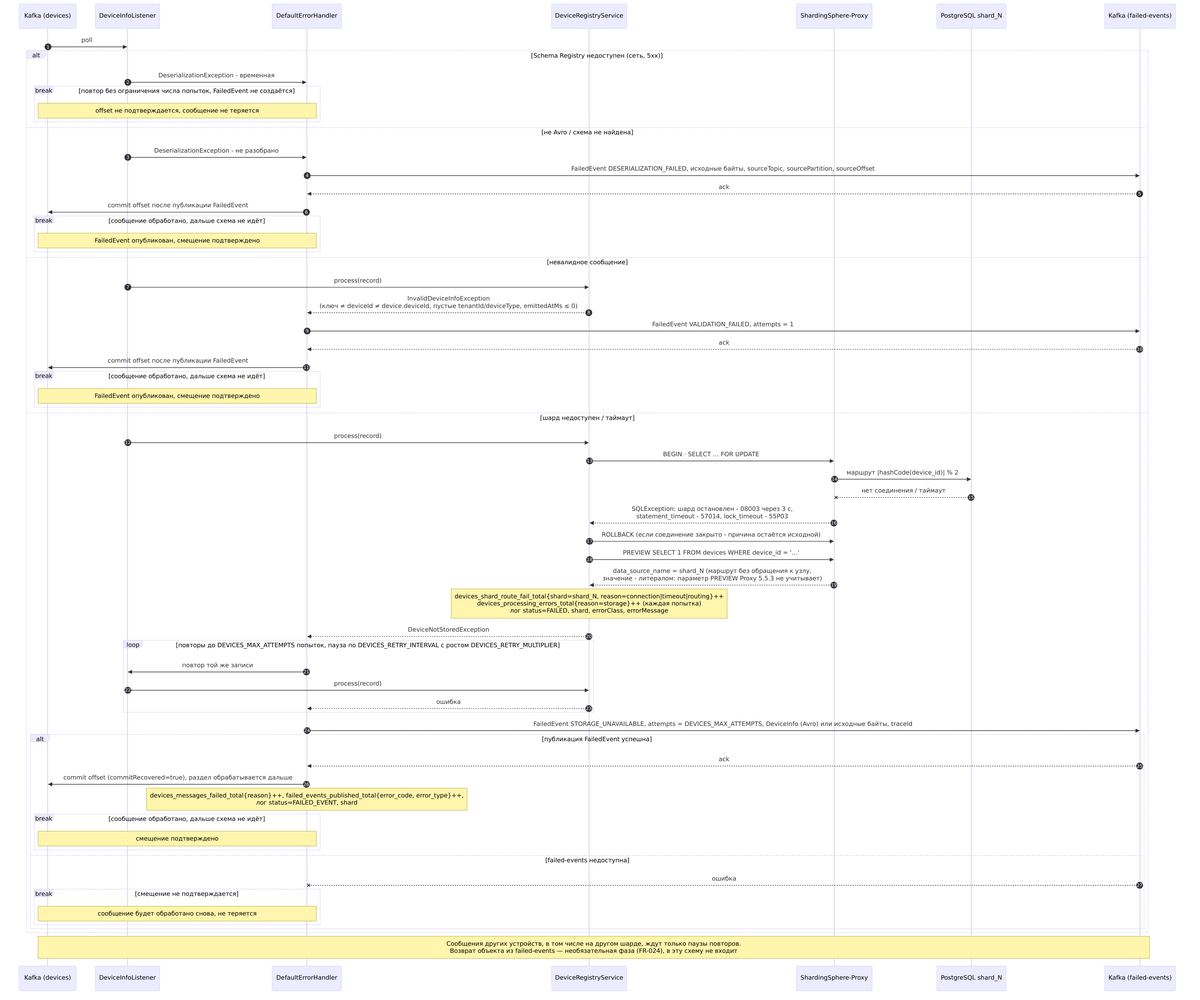
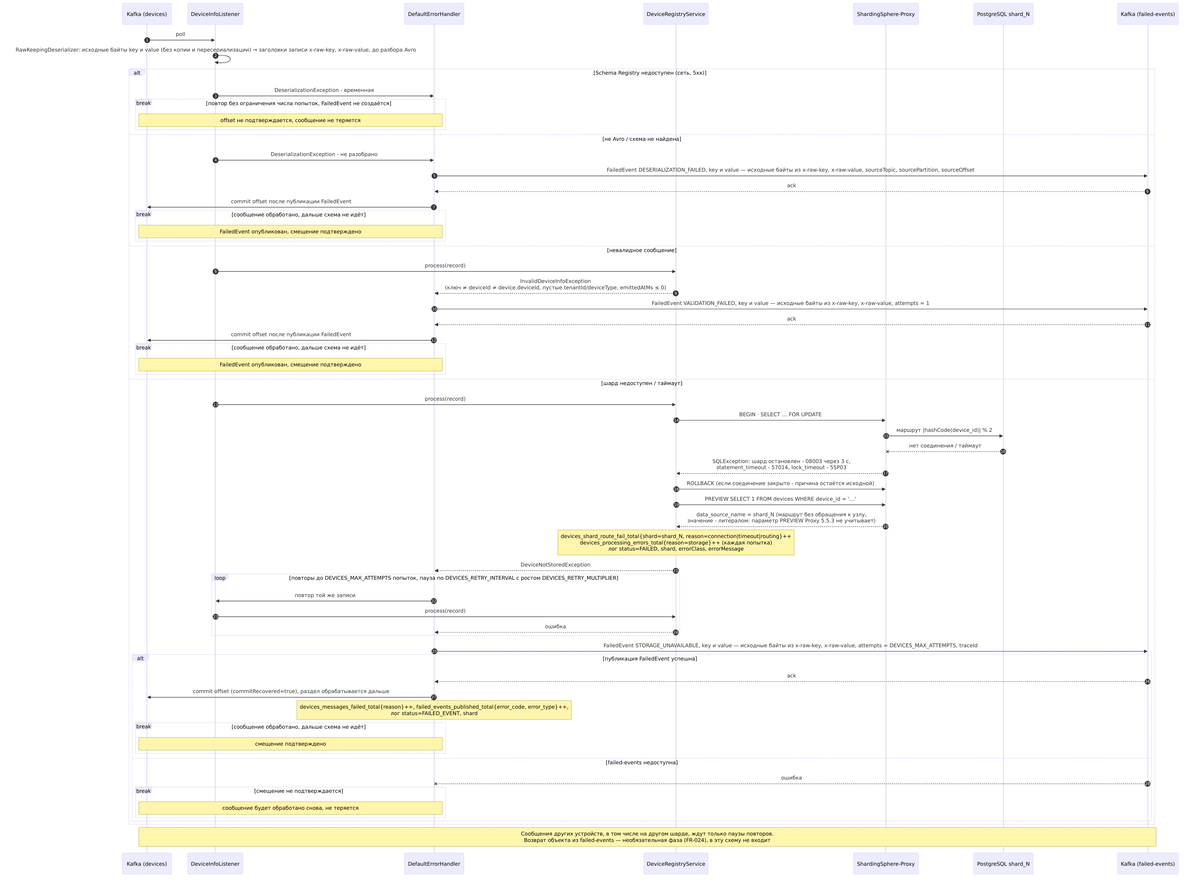
Дизайн: правки по ревью PR 6 - единый ключ объекта, исходные байты, порядок записей и ответственность за FailedEvent
- ключ объекта один для читаемой и нечитаемой записи: <yyyy>/<MM>/<dd>/failed-events-<partition>-<offset>.json
  из раздела, смещения и времени записи failed-events; сбой между записью unreadable и подтверждением смещения
  больше не даёт второго объекта (ADR-0014, ADR-0018, ADR-0019, spec, data-model, plan, research, quickstart, tasks)
- цена решения записана в ADR-0014: нет префикса сервис/код (поиск по метаданным), повторная публикация
  сборщиком даёт второй объект с теми же координатами исходного сообщения в теле
- диаграммы: FailedEvent во всех ветках получает исходные байты из x-raw-key и x-raw-value, шаг их сохранения до
  разбора Avro; ack events после device_events и device_outbox; сервис реестра бросает исключение, FailedEvent
  публикует DefaultErrorHandler, смещение после ответа Kafka, ветка неудачной публикации; PNG перерендерены
- analyze-report: проход после ревью PR 6

diff --git a/specs/002-failed-events/spec.md b/specs/002-failed-events/spec.md
@@ -14,21 +14,23 @@ MinIO становится общим хранилищем: в нём живут
 
 ### Session 2026-11-21
 
-- Q: Из чего строится ключ объекта и зачем так? → A: из координат и времени **исходного** сообщения
-  (`<sourceService>/<yyyy>/<MM>/<dd>/<errorCode>/<sourceTopic>-<sourcePartition>-<sourceOffset>.json`). Ключ из координат
-  `failed-events` и времени записи дал бы второй объект, когда сборщик упал после публикации и до фиксации смещения и
-  опубликовал то же сообщение снова ([ADR-0014](../../docs/adr/0014-failed-object-key-and-idempotent-write.md)).
-- Q: Как найти объект через полгода? → A: по префиксу (сервис → дата → код ошибки); по `traceId` и `deviceId` — они лежат
-  в JSON и в метаданных объекта (`x-amz-meta-trace-id`, `x-amz-meta-device-id`); перечень объектов за день можно выгрузить
-  и искать по тексту ([ADR-0014](../../docs/adr/0014-failed-object-key-and-idempotent-write.md)).
-- Q: Что делает процессор с сообщением, которое сам не смог десериализовать? → A: пишет объект `unreadable/…` с сырыми
-  байтами ключа, значения и заголовков записи `failed-events` в base64 и причиной, затем подтверждает смещение. Временная
+- Q: Из чего строится ключ объекта и зачем так? → A: из раздела, смещения и времени записи `failed-events`
+  (`<yyyy>/<MM>/<dd>/failed-events-<partition>-<offset>.json`), одинаково для читаемой и нечитаемой записи. Нечитаемая запись
+  не даёт координат исходного сообщения; при двух разных ключах сбой между записью `unreadable` и подтверждением смещения
+  после восстановления схемы дал бы два объекта на одну запись (замечание ревью PR #6,
+  [ADR-0014](../../docs/adr/0014-failed-object-key-and-idempotent-write.md)). Цена: повторная публикация того же исходного
+  сообщения сборщиком — новая запись `failed-events` и второй объект с теми же координатами исходного сообщения в теле.
+- Q: Как найти объект через полгода? → A: по префиксу дня (`yyyy/MM/dd/`); сервис, код ошибки, `traceId` и `deviceId` — по
+  метаданным объекта (`x-amz-meta-error-code`, `-source-service`, `-trace-id`, `-device-id`) и по полям JSON; перечень объектов
+  за день можно выгрузить и искать по тексту ([ADR-0014](../../docs/adr/0014-failed-object-key-and-idempotent-write.md)).
+- Q: Что делает процессор с сообщением, которое сам не смог десериализовать? → A: пишет объект с тем же ключом и `kind = unreadable`
+  в теле: сырые байты ключа, значения и заголовков записи `failed-events` в base64 и причина; затем подтверждает смещение. Временная
   недоступность Schema Registry — не нечитаемость: повторы без объекта
   ([ADR-0018](../../docs/adr/0018-failed-events-processor-failure-modes.md)).
 - Q: Что происходит, когда БД недоступна и весь поток уходит в `failed-events`? → A: сборщик после N попыток публикует
   `STORAGE_UNAVAILABLE` на каждое сообщение, основная тема не стоит; Kafka хранит поток 14 суток, процессор пишет по
-  объекту на сообщение со своей скоростью, отставание видно на панели. Объекты одного кода и дня лежат под одним префиксом —
-  их можно вернуть пачкой после восстановления БД. Предохранитель «пауза потребления» отвергнут
+  объекту на сообщение со своей скоростью, отставание видно на панели. Объекты дня лежат под одним префиксом, объекты одного кода
+  отбираются по метаданным — их можно вернуть пачкой после восстановления БД. Предохранитель «пауза потребления» отвергнут
   ([ADR-0018](../../docs/adr/0018-failed-events-processor-failure-modes.md)).
 - Q: Чем и по какому расписанию копии PostgreSQL и ClickHouse уходят в MinIO? → A: контейнер `backup-runner`, расписание
   `BACKUP_SCHEDULE` (по умолчанию `0 3 * * *`, UTC) и `make backup` вручную; PostgreSQL — логика `shard-backup.sh`, ClickHouse —
@@ -67,7 +69,7 @@ MinIO становится общим хранилищем: в нём живут
 1. **Given** запись в `failed-events`, **When** процессор прочитал её, **Then** один объект, смещение — после записи.
 2. **Given** запись доставлена повторно, **When** процессор читает её снова, **Then** объект тот же, второго нет.
 3. **Given** MinIO недоступен, **When** процессор читает, **Then** повторы, дальше не читает, смещение не фиксируется; после возврата MinIO объект есть.
-4. **Given** нечитаемая запись `failed-events`, **When** процессор читает, **Then** объект `unreadable/…`, смещение подтверждено.
+4. **Given** нечитаемая запись `failed-events`, **When** процессор читает, **Then** объект с `kind = unreadable` по ключу записи, смещение подтверждено.
 
 ### User Story 3 — Найти сообщение и восстановить байты (P2)
 
@@ -89,7 +91,8 @@ MinIO становится общим хранилищем: в нём живут
 - Недоступен MinIO дольше `max.poll.interval.ms`: тайм-ауты клиента короче интервала, группа остаётся `Stable`.
 - Всплеск ошибок: отставание группы `failed-events-processor` растёт, на основной поток не влияет (см. Clarifications).
 - Бакет `failed-events` существует с данными: перезапуск стенда и init его не очищают и не пересоздают.
-- Объект уже существует с другим содержимым (тот же ключ): `412` — это повторная запись того же сообщения, содержимое не перезаписывается.
+- Объект уже существует с другим содержимым (тот же ключ): `412` — это повторная запись той же записи `failed-events`, содержимое не перезаписывается.
+- Запись сначала нечитаема (схема не найдена), объект записан, смещение не подтверждено; схема появилась, запись разобрана: тот же ключ, `412`, объект остаётся `unreadable` с исходными байтами ([ADR-0014](../../docs/adr/0014-failed-object-key-and-idempotent-write.md)).
 
 ## Requirements
 
@@ -133,14 +136,16 @@ MinIO становится общим хранилищем: в нём живут
 ### failed-events-processor
 
 - **FR-007**: Процессор читает `failed-events` (группа `failed-events-processor`) и на каждую запись пишет один JSON-объект в бакет
-  `failed-events` по ключу `<sourceService>/<yyyy>/<MM>/<dd>/<errorCode>/<sourceTopic>-<sourcePartition>-<sourceOffset>.json`
-  (дата — `sourceTimestamp`, UTC). В JSON все поля `FailedEvent`, байты — base64, `description` и коды — как есть; в метаданных
+  `failed-events` по ключу `<yyyy>/<MM>/<dd>/failed-events-<partition>-<offset>.json` (раздел и смещение записи `failed-events`,
+  дата — время этой записи, UTC; ключ один для читаемой и нечитаемой записи). В JSON все поля `FailedEvent`, байты — base64, `description` и коды — как есть; в метаданных
   объекта `error-code`, `source-service`, `source-topic`, `trace-id`, `device-id` (тот же набор, что в data-model.md). Смещение — после успешной записи.
   *Проверка*: объект существует, JSON содержит каждое поле схемы, `base64(value)` побайтно равно исходному сообщению, метаданные заполнены.
 - **FR-008**: Повторная доставка не создаёт второго объекта: запись `PutObject` с `If-None-Match: *`, ответ `412` — объект уже есть,
   смещение подтверждается; содержимое существующего объекта не меняется и версий не прибавляется.
-  *Проверка*: одна и та же запись `failed-events` доставлена дважды (и две разные записи с одним исходным сообщением) — в бакете один объект,
-  одна версия, счётчик `outcome=duplicate` вырос.
+  Повторная публикация того же исходного сообщения сборщиком — новая запись `failed-events` с другим смещением, то есть второй объект
+  с теми же `sourceTopic`, `sourcePartition`, `sourceOffset` в теле (известное ограничение, ADR-0014).
+  *Проверка*: одна и та же запись `failed-events` доставлена дважды — в бакете один объект, одна версия, счётчик `outcome=duplicate` вырос;
+  запись, сначала записанная как `unreadable`, а затем разобранная, — один объект.
 - **FR-009**: MinIO недоступен — процессор повторяет запись с растущей паузой (до `FAILED_EVENTS_RETRY_MAX_INTERVAL`), дальше не
   читает и не фиксирует смещение; тайм-ауты вызова S3 (`FAILED_EVENTS_S3_API_CALL_TIMEOUT`, `FAILED_EVENTS_S3_API_CALL_ATTEMPT_TIMEOUT`) короче
   `max.poll.interval.ms`, поэтому группа остаётся `Stable`. После возврата MinIO объект появляется, повторов потерь нет.
@@ -148,9 +153,8 @@ MinIO становится общим хранилищем: в нём живут
   *Проверка*: IT — MinIO на паузе дольше `max.poll.interval.ms`: смещение группы не движется, группа `Stable`; после снятия паузы
   объект появился и смещение продвинулось; тест перезапуска процессора над непустым бакетом — объекты на месте.
 - **FR-010**: Запись `failed-events`, которую процессор не смог десериализовать (мусор, неизвестная схема, 404 схемы), — объект
-  `unreadable/<yyyy>/<MM>/<dd>/failed-events-<partition>-<offset>.json` (сырые байты ключа, значения, заголовков в base64, причина,
-  дата — время записи), затем смещение. Временная ошибка Schema Registry — повторы без объекта.
-  *Проверка*: в `failed-events` отправлены байты мусора — объект `unreadable/…` есть, группа дальше читает; при остановленном
+  по тому же ключу, что в FR-007 (`kind = unreadable` в теле; сырые байты ключа, значения, заголовков в base64, причина), затем смещение. Временная ошибка Schema Registry — повторы без объекта.
+  *Проверка*: в `failed-events` отправлены байты мусора — объект с `kind = unreadable` есть, группа дальше читает; при остановленном
   Schema Registry объекта нет, смещение не движется, после запуска запись разобрана штатно.
 - **FR-011**: Один `traceId`: сообщение в `events` → сборщик с ошибкой → `failed-events` → запись в MinIO; тот же `traceId` в JSON.
   Запись в MinIO — спан `s3.put-object` в той же трассе.
@@ -160,7 +164,7 @@ MinIO становится общим хранилищем: в нём живут
   процессор пишет со своей скоростью. *Проверка* (на стенде, [quickstart.md](quickstart.md), сценарий 6): остановлен Proxy, отправлено
   N событий — через `EVENTS_MAX_ATTEMPTS` попыток N записей `STORAGE_UNAVAILABLE`, после записи всех — N объектов; замерена скорость
   процессора (объектов/с), на панели виден рост и спад отставания.
-- **FR-013**: Поиск через полгода описан и проверен: найти объект по префиксу (сервис, дата, код), по `deviceId` и по `traceId`.
+- **FR-013**: Поиск через полгода описан и проверен: найти объект по префиксу дня, затем по метаданным или полю JSON (сервис, код), по `deviceId` и по `traceId`.
   *Проверка*: README содержит команды (`mc ls`, `mc find --metadata`); по ним находится объект тестового сообщения.
 
 ### MinIO
@@ -215,12 +219,12 @@ MinIO становится общим хранилищем: в нём живут
 
 - **FailedEvent** — сообщение темы `failed-events` (data-model.md): исходное сообщение + описание ошибки.
 - **Объект ошибки** — JSON в `failed-events/…`: образ `FailedEvent` с base64 вместо байтов и метаданными для поиска.
-- **Нечитаемая запись** — объект `unreadable/…`: сырые байты записи `failed-events`, которую процессор не разобрал.
+- **Нечитаемая запись** — объект с `kind = unreadable`: сырые байты записи `failed-events`, которую процессор не разобрал; ключ тот же, что у обычного объекта.
 - **Копия базы** — каталог в `backups/<база>/<метка>/` с дампом, manifest и контрольными суммами.
 
 ## Success Criteria
 
-- **SC-001**: Число записей, опубликованных сборщиками в `failed-events`, равно числу различных объектов (по исходным координатам) в бакете — потерь нет.
+- **SC-001**: Число записей, опубликованных сборщиками в `failed-events`, равно числу объектов в бакете (повторная публикация одного сообщения — известное исключение, ADR-0014) — потерь нет.
 - **SC-002**: Повторная доставка любой записи не увеличивает число объектов и версий.
 - **SC-003**: Пауза MinIO на 45 с: группа `failed-events-processor` остаётся `Stable`, после снятия паузы все записи архивированы.
 - **SC-004**: Восстановление баз из копий MinIO возвращает данные, равные manifest.

diff --git a/docs/adr/0014-failed-object-key-and-idempotent-write.md b/docs/adr/0014-failed-object-key-and-idempotent-write.md
@@ -1,36 +1,42 @@
 # ADR-0014: Ключ объекта в MinIO и идемпотентная запись
 
-**Статус**: предложено, 2026-11-21 (на проверке дизайна) · **Спецификация**: [specs/002-failed-events](../../specs/002-failed-events/spec.md)
+**Статус**: предложено, 2026-11-21 (на проверке дизайна); изменено 2026-11-22 по ревью PR #6 (единый ключ для читаемой и нечитаемой записи) · **Спецификация**: [specs/002-failed-events](../../specs/002-failed-events/spec.md)
 
 ## Контекст
 
-Процессор пишет по одному объекту на каждое сообщение `failed-events`. Повторная доставка неизбежна: сбой после отправки и до подтверждения смещения, перебалансировка группы, повторная публикация сборщиком. Если ключ строится из координат `failed-events` и времени записи, повторная публикация дает второй объект (ошибка иллюстративного примера исходной постановки, research.md, «Иллюстративные примеры исходной постановки», п. 1).
+Процессор пишет по одному объекту на каждое сообщение `failed-events`. Повторная доставка неизбежна: сбой после отправки и до подтверждения смещения, перебалансировка группы.
+
+Первая редакция строила ключ читаемой записи из координат исходного сообщения (`sourceService/…/errorCode/sourceTopic-p-o`), а нечитаемой — из координат записи в `failed-events` (`unreadable/…`). Ревью показало дефект. Если схема сначала не найдена, объект записан в `unreadable/`, а процесс упал до подтверждения смещения, после восстановления схемы запись разберётся и уйдёт в обычную ветку. Ключ другой, `If-None-Match` не сработает, и на одну запись `failed-events` будет два объекта. У нечитаемой записи координат исходного сообщения нет, поэтому общий ключ можно построить только из координат самой записи `failed-events`.
 
 Поиск нужен через полгода: по сервису, коду, дню, трассе и устройству.
 
 ## Решение
 
-- Ключ объекта: `<sourceService>/<yyyy>/<MM>/<dd>/<errorCode>/<sourceTopic>-<sourcePartition>-<sourceOffset>.json`. Дата — `sourceTimestamp` в UTC. Одно исходное сообщение дает один ключ независимо от числа публикаций.
-- Нечитаемое сообщение `failed-events`: `unreadable/<yyyy>/<MM>/<dd>/failed-events-<partition>-<offset>.json`, дата — время записи в `failed-events` (правило — ADR-0018).
-- Тело JSON содержит все поля `FailedEvent`. `key`, `value` и `headers` — base64 от исходных байтов. Времена — ISO-8601 UTC.
+- Ключ объекта один для обеих веток: `<yyyy>/<MM>/<dd>/failed-events-<partition>-<offset>.json`. `partition` и `offset` — раздел и смещение записи в `failed-events`, дата — время этой записи (`timestamp`) в UTC. Эти три значения при повторной доставке записи не меняются, поэтому ключ тот же.
+- Читаемая и нечитаемая запись различаются телом, а не ключом: у нечитаемой поле `kind = unreadable` (правило — ADR-0018).
+- Время записи — `timestamp` записи Kafka (по умолчанию `CreateTime`, его ставит продюсер сборщика при отправке). Оно не зависит от числа доставок записи процессору. Что тема использует `CreateTime`, а не `LogAppendTime`, проверяет тест ключа (T035); для `LogAppendTime` время тоже одно на запись.
+- Тело JSON содержит все поля `FailedEvent`. `key`, `value` и `headers` — base64 от исходных байтов. Времена — ISO-8601 UTC. Координаты исходного сообщения (`sourceTopic`, `sourcePartition`, `sourceOffset`) лежат в теле.
 - Запись в объект: `PutObject` с `If-None-Match: *`. Ответ 412 означает, что объект уже записан; сообщение считается обработанным и смещение подтверждается. Версия не создаётся (см. research.md R5: `bitnamilegacy/minio` и `pgsty/minio`).
 - HEAD с последующим PUT не используется: между двумя экземплярами процессора это гонка.
-- Содержимое при повторе не сравнивается: 412 означает «объект с таким ключом уже есть». Ключ однозначно задаёт исходное сообщение, поэтому сравнение не нужно.
-- Метаданные объекта: `x-amz-meta-error-code`, `x-amz-meta-source-service`, `x-amz-meta-device-id`, `x-amz-meta-trace-id`.
-- Поиск через полгода: ListObjectsV2 по префиксу сервис → дата → код; `traceId` и `deviceId` — по метаданным объекта или полю JSON. Полнотекстовый поиск — выгрузкой дня в ClickHouse или скриптом.
+- Содержимое при повторе не сравнивается: 412 означает «объект с таким ключом уже есть». Ключ однозначно задаёт запись `failed-events`, поэтому сравнение не нужно.
+- Метаданные объекта: `x-amz-meta-error-code`, `x-amz-meta-source-service`, `x-amz-meta-device-id`, `x-amz-meta-trace-id`; у нечитаемой записи метаданных нет, она определяется полем `kind` в теле.
+- Поиск через полгода: `ListObjectsV2` по префиксу дня (`yyyy/MM/dd/`); сервис, код, `traceId` и `deviceId` — по метаданным объекта (`mc find --metadata`) или полю JSON.
 
 ## Последствия
 
-- Повторная доставка и повторная публикация одного сообщения не создают дубликатов.
+- Одна запись `failed-events` даёт ровно один объект в обеих ветках, в том числе при сбое между записью `unreadable` и подтверждением смещения.
+- Ключ больше не содержит сервис и код ошибки. Выбрать объекты одного сервиса или кода можно только перебором префикса дня и чтением метаданных: каждый объект — отдельный `HEAD`. Скорость на объёме за полгода не измерена (не проверено).
+- Повторная публикация одного исходного сообщения сборщиком (публикация дошла до брокера, сборщик упал до подтверждения смещения `events`) даёт новую запись `failed-events` с другим смещением и потому второй объект с теми же координатами исходного сообщения в теле. Первая редакция этого случая избегала. Дубль безопасен: содержимое совпадает, отличаются `failedAt` и `traceId`, если трасса новая. Окно узкое (публикация синхронная, `acks=all`), число таких дублей на стенде не измерялось (не проверено).
+- Если запись сначала записана как `unreadable`, а схема потом появилась, объект остаётся `unreadable` с исходными байтами. Повторная запись вернёт 412. Разобрать такой объект можно вручную по base64; автоматической перезаписи нет.
 - Объект после записи не меняется. Исправленное содержимое требует нового объекта, и это осознанно.
-- Префикс по коду и дню позволяет найти пачку объектов одного кода (нужно для возврата, ADR-0019).
-- Если объект записан с ошибочным содержимым, повторная публикация не исправит его: ключ тот же, запись вернёт 412. Исправление требует ручного удаления объекта; процедуры в проекте нет (не проверено).
-- Поиск по `deviceId` и `traceId` идёт по префиксу дня, индекса нет. Скорость на объёме за полгода не измерена (не проверено).
+- Если объект записан с ошибочным содержимым, повторная доставка не исправит его: ключ тот же, запись вернёт 412. Исправление требует ручного удаления объекта; процедуры в проекте нет (не проверено).
 - Восстановление байт из JSON декодированием base64 проверено только на уровне записи объекта (см. research.md R5); отдельного теста «JSON → байты → sha256» нет (не проверено; тест JSON-документа — T035).
+- Возврат объекта (ADR-0019) выбирает объекты по префиксу дня и метаданным, а не по префиксу кода.
 
 ## Рассмотренные варианты
 
-- Ключ из координат `failed-events` и времени записи: дубль при повторной публикации. Отвергнуто.
+- Два ключа: по координатам исходного сообщения и `unreadable/…` по координатам записи `failed-events` (первая редакция). Окно с двумя объектами на одну запись при сбое между записью и подтверждением. Отвергнуто по ревью PR #6.
+- Ключ из координат исходного сообщения для читаемой записи и «координат записи» для нечитаемой, с проверкой наличия обоих ключей перед записью: HEAD по двум ключам — гонка между экземплярами. Отвергнуто.
 - HEAD, затем PUT: гонка двух экземпляров процессора. Отвергнуто.
 - Версионирование без условного PUT: новая версия на каждый повтор доставки (research.md, «Иллюстративные примеры исходной постановки», п. 11). Отвергнуто.
-- Ключ с `deviceId` первым: неравномерный префикс, нет поиска по дню и сервису. Отвергнуто.
+- Ключ с `deviceId` первым: неравномерный префикс, нет поиска по дню. Отвергнуто.

diff --git a/specs/002-failed-events/research.md b/specs/002-failed-events/research.md
@@ -12,9 +12,9 @@ Mimir 3.2.6, Loki 3.1.1, Tempo 2.6.0, Alloy v1.4.2, ClickHouse 26.2.19, PostgreS
 | R2 | Ключ — строгий UTF-8: `StringDeserializer` молча заменяет недопустимые байты, поэтому ключ декодируется строгим декодером; ошибка — `DESERIALIZATION_FAILED` с исходными байтами | Проверено на прототипе: с `StringDeserializer` байты ключа `FF FE 41` терялись; со строгим декодером — `DESERIALIZATION_FAILED` с исходными байтами | T011, T016, T022, T025 | — |
 | R3 | Публикация в `failed-events` — в `ConsumerRecordRecoverer` синхронно (`send().get(тайм-аут)`); сбой публикации — исключение, смещение не подтверждается, сообщение обработано заново; `setCommitRecovered(true)` при `manual_immediate` подтверждает после успеха. `ExponentialBackOffWithMaxRetries(n)` даёт `n + 1` вызовов слушателя, поэтому повторов — `maxAttempts − 1` | Проверено на прототипе: 3 вызова при `n = 2`, одна запись после восстановления темы, committed offset не двигался до восстановления | T010, T018, T021, T027 | — |
 | R4 | `traceId` — из `Tracer.currentSpan()` в recoverer; запасной путь — заголовок `traceparent`; у сообщения без трассы — `null` | Проверено на прототипе: трассы для всех трёх типов ошибок. Не проверено: сообщение без `traceparent` и без спана (граница; проверяют T010 и T021) | T010, T017 | — |
-| R5 | Идемпотентная запись: `PutObject` с `If-None-Match: *`, повтор — `412`; версионирование не создаёт второй версии; ключ объекта из координат и времени исходного сообщения | Проверено: условная запись на бакете с версиями — на MinIO 2024.10.13 и на `pgsty/minio` 2026-08-04; клиент Java на настоящем MinIO — 14 тестов (13 тестов прототипа + проверка модуля Testcontainers MinIO) | T008, T043, T037 | — |
+| R5 | Идемпотентная запись: `PutObject` с `If-None-Match: *`, повтор — `412`; версионирование не создаёт второй версии; ключ объекта из раздела, смещения и времени записи `failed-events`, один для читаемой и нечитаемой записи (изменено по ревью PR #6; прототипы проверяли условную запись, а не форму ключа) | Проверено: условная запись на бакете с версиями — на MinIO 2024.10.13 и на `pgsty/minio` 2026-08-04; клиент Java на настоящем MinIO — 14 тестов (13 тестов прототипа + проверка модуля Testcontainers MinIO) | T008, T043, T037 | — |
 | R6 | Недоступность MinIO дольше `max.poll.interval.ms`: тайм-ауты клиента (`apiCallTimeout` 8 с, `apiCallAttemptTimeout` 4 с) короче интервала + бесконечный `ExponentialBackOff` (500 мс … 10 с) + `ContainerPausingBackOffHandler`; без тайм-аутов потребитель вылетает из группы | Проверено на прототипе с S3-заглушкой, затем на `pgsty/minio`: группа `Stable` при паузе 45 с, объект появляется после снятия | T043, T045, T038 | — |
-| R7 | Нечитаемая запись `failed-events` — объект `unreadable/…` и смещение; временная ошибка Schema Registry — повторы без объекта, 404 схемы и мусор — `unreadable` | Проверено на прототипе: при паузе Schema Registry объекта нет, после возврата запись разобрана. Не измерено: число повторов при недоступном Schema Registry | T045, T038 | — |
+| R7 | Нечитаемая запись `failed-events` — объект с `kind = unreadable` по общему ключу записи и смещение; временная ошибка Schema Registry — повторы без объекта, 404 схемы и мусор — `unreadable` | Проверено на прототипе: при паузе Schema Registry объекта нет, после возврата запись разобрана. Не измерено: число повторов при недоступном Schema Registry | T045, T038 | — |
 | R8 | Спан записи в MinIO — Observation `s3.put-object` с тегом `bucket`, потомок спана слушателя той же трассы | Проверено на прототипе: спан создан и связан со спаном слушателя. Не проверено: экспорт в Tempo (проверяют T048 и T049) | T043, T039 | явный `Tracer.nextSpan()` в адаптере |
 | R9 | `FailedEvent` совместима FULL_TRANSITIVE; `ErrorCode` с `default` — новый символ читается старым читателем как `UNKNOWN`. Поле `deviceId` (`["null","string"]`, default `null`) добавлено к прототипной схеме | Проверено на прототипе для схемы без `deviceId`; `deviceId` — Предположение, закрывает `make avros-check` (T003) | T003, T014, T036 | — |
 | R10 | Образ MinIO `pgsty/minio:RELEASE.2026-08-04T00-00-00Z` (форк; amd64 и arm64): официальные `minio/minio`, `minio/mc` — `pull access denied`, `quay.io/minio/minio` — 401; в образе есть `sh`, `tr`, `curl`, `mc`, `sha256sum`, нет `grep`, `sed`, `awk` | Проверено: стенд, init, Testcontainers и прототипы: запуск под root, `minio --version`, наличие `sh`, `curl`, `mc`; `bitnamilegacy` требует явной команды запуска. Проект переименован в `pgsty/silo` (последний тег 2026-11-12) — не проверялся | T007, T009, T037 | свой образ из `bitnamilegacy/minio:2024.10.13-debian-12-r0` (заморожен); переход на `silo` — отдельным ADR |
@@ -38,7 +38,7 @@ Mimir 3.2.6, Loki 3.1.1, Tempo 2.6.0, Alloy v1.4.2, ClickHouse 26.2.19, PostgreS
 
 | # | Пример | Что неверно | Как у нас |
 |---|---|---|---|
-| 1 | Ключ объекта `…/failed-events-3-1042.json` из координат `failed-events` и даты записи | Повторная публикация того же исходного сообщения сборщиком даёт второй объект | Координаты и время исходного сообщения (ADR-0014) |
+| 1 | Ключ объекта `…/failed-events-3-1042.json` из координат `failed-events` и даты записи | Повторная публикация того же исходного сообщения сборщиком даёт второй объект; первая редакция дизайна отвергла этот ключ | Принят по ревью PR #6 для обеих веток: у нечитаемой записи нет координат исходного сообщения, и два разных ключа дают два объекта на одну запись (ADR-0014); ограничение повторной публикации записано там же |
 | 2 | Recoverer берёт байты из `DeserializationException` | Для невалидного, но разобранного сообщения исходных байт нет, а пересериализация меняет байты (id схемы) | Сырые байты до разбора (R1) |
 | 3 | `new ExponentialBackOffWithMaxRetries(retry.maxAttempts())` | Повторов на один больше, чем попыток | `maxAttempts − 1` (R3) |
 | 4 | `jsonMapper.toJson(record.value())` по Avro `SpecificRecord` | В JSON попадают служебные поля и `ByteBuffer` | Явный документ с base64 (data-model.md) |

diff --git a/specs/002-failed-events/plan.md b/specs/002-failed-events/plan.md
@@ -9,8 +9,8 @@
 Сборщики (events-collector-service, device-collector-service) вместо собственных DLT публикуют `FailedEvent` в единую тему
 `failed-events`: исходные байты до разбора, координаты и время исходного сообщения, код и тип ошибки из общего справочника в
 схеме. Публикация синхронная, смещение исходной темы — после неё. Новый сервис `failed-events-processor` читает тему и на каждую
-запись пишет один JSON-объект в MinIO условной записью `If-None-Match: *` по ключу из координат исходного сообщения: повтор не
-даёт второго объекта. MinIO — единое хранилище платформы в базовом стенде: данные Mimir (заменяет Prometheus), Loki, Tempo и
+запись пишет один JSON-объект в MinIO условной записью `If-None-Match: *` по ключу из раздела, смещения и времени записи `failed-events`: повторная
+доставка записи не даёт второго объекта. MinIO — единое хранилище платформы в базовом стенде: данные Mimir (заменяет Prometheus), Loki, Tempo и
 копии баз (`backup-runner`). Сервисы платформы не меняются в части метрик: Alloy передаёт их в Mimir, Grafana читает с тем же `uid`.
 
 ## Technical Context
@@ -33,7 +33,7 @@
 |---|---|---|
 | I. Один владелец | процессор — единственный писатель бакета `failed-events`; сборщики — единственные писатели темы | ✅ |
 | II. Контракты | `FailedEvent` — новая запись avros 1.4.0, FULL_TRANSITIVE, `default` у всех необязательных полей; DLT-subjects удалены | ✅ |
-| III. Идемпотентность | ключ из исходных координат + `If-None-Match: *`; смещение после записи | ✅ |
+| III. Идемпотентность | ключ из координат записи `failed-events` + `If-None-Match: *`; смещение после записи | ✅ |
 | IV. Без состояния, окружение | процессор без состояния; все параметры — `.env.example`; тайм-ауты S3 и Kafka заданы | ✅ |
 | V. Безопасность | учётка на свой бакет/префикс; секретов в репозитории нет; описание ошибки без стека | ✅ |
 | VI. Наблюдаемость | метрики без `deviceId`, JSON-логи с `traceId`, спан `s3.put-object`, дашборд процессора и MinIO | ✅ |
@@ -72,11 +72,11 @@ infrastructure/config/backup-runner/{Dockerfile,entrypoint.sh,backup-postgres.sh
 | Решение | Почему | ADR |
 |---|---|---|
 | Единая тема `failed-events`, `FailedEvent` с байтами исходного сообщения и enum кодов | один путь ошибок; `events-dlt` и `devices-dlt` удалены | 0013 |
-| Ключ объекта из координат и времени исходного сообщения, `If-None-Match: *` | повторная публикация сборщиком не даёт второго объекта; версионирование не плодит версий | 0014 |
+| Ключ объекта из раздела, смещения и времени записи `failed-events` (один для читаемой и нечитаемой записи), `If-None-Match: *` | повторная доставка записи не даёт второго объекта в обеих ветках; версионирование не плодит версий; повторная публикация сборщиком — второй объект (ограничение) | 0014 |
 | `pgsty/minio:RELEASE.2026-08-04T00-00-00Z`, бакеты и учётки по компонентам, сроки заданы | официальный образ недоступен; задание требует свой доступ и срок на бакет | 0015 |
 | Mimir вместо Prometheus; Loki и Tempo в MinIO; прежний `uid` источника | дашборды и сервисы не меняются | 0016 |
 | `backup-runner` с cron, копии PostgreSQL и ClickHouse в `backups/…`, восстановление из MinIO; один общий скрипт копии шарда (`shard-backup.sh`) для `make shard-backup` и backup-runner | задание; manifest со смещениями группы | 0017 |
-| Нечитаемое — `unreadable/…`; MinIO недоступен — повторы и пауза; всплеск — через Kafka | не терять, не выпасть из группы, не остановить основной поток | 0018 |
+| Нечитаемое — объект с `kind = unreadable` по общему ключу записи; MinIO недоступен — повторы и пауза; всплеск — через Kafka | не терять, не выпасть из группы, не остановить основной поток | 0018 |
 | Дополнительно: возврат объекта и Object Lock; каскад не берём | Lock нельзя включить позже; каскад меняет сборщики сверх задания | 0019 |
 
 ## Ошибки
@@ -86,7 +86,7 @@ infrastructure/config/backup-runner/{Dockerfile,entrypoint.sh,backup-postgres.sh
 | Ситуация | Поведение |
 |---|---|
 | Публикация `FailedEvent` не удалась (тема недоступна, тайм-аут) | исключение из recoverer, смещение исходной темы не подтверждается, сообщение обработано заново |
-| Запись `failed-events` не разобрана (мусор, 404 схемы) | объект `unreadable/…`, смещение |
+| Запись `failed-events` не разобрана (мусор, 404 схемы) | объект с `kind = unreadable` по ключу записи, смещение |
 | Schema Registry недоступен при чтении `failed-events` | повторы без объекта, смещение не подтверждается |
 | MinIO недоступен или медленный | тайм-аут вызова, повтор с растущей паузой, дальше не читает, группа `Stable` |
 | `412` на запись | объект уже есть — `outcome=duplicate`, смещение |

diff --git a/docs/adr/0018-failed-events-processor-failure-modes.md b/docs/adr/0018-failed-events-processor-failure-modes.md
@@ -1,6 +1,6 @@
 # ADR-0018: Поведение failed-events-processor при сбоях
 
-**Статус**: предложено, 2026-11-21 (на проверке дизайна) · **Спецификация**: [specs/002-failed-events](../../specs/002-failed-events/spec.md)
+**Статус**: предложено, 2026-11-21 (на проверке дизайна); дополнено 2026-11-22 по ревью PR #6 (общий ключ для читаемой и нечитаемой записи, ADR-0014) · **Спецификация**: [specs/002-failed-events](../../specs/002-failed-events/spec.md)
 
 ## Контекст
 
@@ -8,8 +8,8 @@
 
 ## Решение
 
-- Нечитаемое сообщение (не Avro, 404 схемы, мусор): объект `unreadable/<yyyy>/<MM>/<dd>/failed-events-<partition>-<offset>.json` с base64 ключа, значения и заголовков и с причиной. Дата — время записи в `failed-events`. Затем смещение подтверждается (см. research.md R7).
-- Временная ошибка Schema Registry (сеть, 5xx): повторы без предела, объект `unreadable` не пишется. Ошибка 404 схемы и ошибка разбора — `unreadable`. Проверено на прототипе (см. research.md R7): при паузе Schema Registry объекта не было; после возврата появился.
+- Нечитаемое сообщение (не Avro, 404 схемы, мусор): объект с тем же ключом, что и у обычного (ADR-0014): `<yyyy>/<MM>/<dd>/failed-events-<partition>-<offset>.json`, дата — время записи в `failed-events`. Тело — `kind = unreadable`, base64 ключа, значения и заголовков, причина. Единый ключ закрывает окно «записан `unreadable`, процесс упал до подтверждения, схема восстановилась, запись разобрана»: вторая запись попадает на тот же ключ и получает 412. Затем смещение подтверждается (см. research.md R7).
+- Временная ошибка Schema Registry (сеть, 5xx): повторы без предела, объект `unreadable` не пишется. Ошибка 404 схемы и ошибка разбора — объект с `kind = unreadable`. Проверено на прототипе (см. research.md R7): при паузе Schema Registry объекта не было; после возврата появился.
 - Недоступность MinIO: `DefaultErrorHandler` с бесконечным `ExponentialBackOff` (максимум 10 с), `ContainerPausingBackOffHandler` и тайм-ауты SDK: `apiCallTimeout` 8 с, `apiCallAttemptTimeout` 4 с. Тайм-ауты меньше `max.poll.interval.ms`. Проверено на s3mock и на MinIO (см. research.md R6): пауза 45 с, группа остаётся `Stable`, смещение подтверждается после возврата, объект один.
 - Без тайм-аута SDK потребитель выпадал из группы через `max.poll.interval.ms` (см. research.md R6, варианты 1 и 2). Пауза контейнера без тайм-аута SDK не помогает: блокировка идёт внутри вызова S3.
 - Своего DLT у процессора нет. При неудачной записи сообщение не подтверждается и остаётся в `failed-events` до восстановления, в пределах 14 суток retention.
@@ -20,7 +20,7 @@
 
 ## Последствия
 
-- Сообщение не теряется: выход из потока только через объект в MinIO или объект `unreadable`.
+- Сообщение не теряется: выход из потока только через объект в MinIO (в том числе с `kind = unreadable`).
 - Пауза MinIO — ожидание, а не сбой: группа `Stable`, но обработка стоит. Сигнал оператору — отставание группы и ошибки записи.
 - Открытый риск: постоянная ошибка записи, не связанная с недоступностью (например, отказ в правах 403), обрабатывается как временная. Процессор застрянет на разделе. Поведение не проверено, решения в проектных материалах нет.
 - Retention 14 суток — жёсткая граница: если MinIO недоступен дольше, сообщения удаляются до записи.

diff --git a/specs/002-failed-events/quickstart.md b/specs/002-failed-events/quickstart.md
@@ -17,14 +17,14 @@
 | # | Сценарий | Что сделать | Ожидание (FR) |
 |---|---|---|---|
 | 1 | Бакеты и права | `make minio-check` | пять бакетов, `403` на чужое, ILM из `.env` (FR-014…016) |
-| 2 | Ошибка приёма событий | `make fep-quick-check`: невалидное событие в `events` с `traceparent` | объект `events-collector-service/<дата>/VALIDATION_FAILED/events-<p>-<o>.json`; `traceId` в JSON равен заданному; смещение `events` подтверждено (FR-004, 007, 011) |
-| 3 | Ошибка реестра устройств | то же: невалидное сообщение в `devices` | объект `device-collector-service/…/VALIDATION_FAILED/devices-<p>-<o>.json` (FR-004) |
+| 2 | Ошибка приёма событий | `make fep-quick-check`: невалидное событие в `events` с `traceparent` | объект `<yyyy>/<MM>/<dd>/failed-events-<p>-<o>.json` с `errorCode = VALIDATION_FAILED`, `sourceService = events-collector-service`; `traceId` в JSON равен заданному; смещение `events` подтверждено (FR-004, 007, 011) |
+| 3 | Ошибка реестра устройств | то же: невалидное сообщение в `devices` | объект `…/failed-events-<p>-<o>.json` с `sourceService = device-collector-service`, `errorCode = VALIDATION_FAILED` (FR-004) |
 | 4 | Нечитаемые байты | то же: мусор в `events` | объект `DESERIALIZATION_FAILED`, `base64(value)` равно отправленному (FR-005, 007) |
 | 5 | Повторная доставка | остановить процессор, `kafka-consumer-groups --reset-offsets --to-earliest --group failed-events-processor --topic failed-events --execute`, запустить | число объектов и версий не изменилось, `failed_events_archived_total{outcome="duplicate"}` выросло (FR-008, SC-002) |
 | 6 | Всплеск | `docker compose stop shardingsphere-proxy`, отправить N событий в `events`, подождать `EVENTS_MAX_ATTEMPTS` попыток, запустить Proxy | N записей `STORAGE_UNAVAILABLE`, затем N объектов; замерена скорость процессора; основная тема не стоит (FR-012, SC-001) |
 | 7 | MinIO недоступен | `docker pause` MinIO на 45 с во время потока ошибок, затем `unpause` | `kafka-consumer-groups --describe --state`: группа `Stable`, смещение стояло и пошло, объекты появились (FR-009, SC-003) |
-| 8 | Нечитаемая запись `failed-events` | положить мусор в `failed-events` консольным продюсером | объект `unreadable/<дата>/failed-events-<p>-<o>.json`, группа дальше читает (FR-010) |
-| 9 | Поиск | `mc ls --recursive local/failed-events/<сервис>/<yyyy>/<MM>/<dd>/<код>/`; `mc find local/failed-events --metadata "x-amz-meta-trace-id=<traceId>"`; то же по `device-id` | найден объект тестового сообщения (FR-013) |
+| 8 | Нечитаемая запись `failed-events` | положить мусор в `failed-events` консольным продюсером | объект `<дата>/failed-events-<p>-<o>.json` с `kind = unreadable`, группа дальше читает (FR-010) |
+| 9 | Поиск | `mc ls --recursive local/failed-events/<yyyy>/<MM>/<dd>/`; `mc find local/failed-events --metadata "x-amz-meta-error-code=<код>"` (то же по `source-service`); `mc find local/failed-events --metadata "x-amz-meta-trace-id=<traceId>"`; то же по `device-id` | найден объект тестового сообщения (FR-013) |
 | 10 | Трасса | `make up PROFILES=observability`; Grafana → Explore → Tempo → `traceId` из сценария 2 | спаны ECS, публикации в `failed-events`, слушателя процессора, `s3.put-object`; те же логи в Loki (FR-011) |
 | 11 | Телеметрия в MinIO | `make obs-check` | объекты в `mimir-blocks`, `loki-chunks`, `tempo-traces`; все запросы панелей — 200 (FR-017…019) |
 | 12 | Копии и восстановление | `make backup`, `make backup-list`; затем `make backup-check` (удаляет данные своего проекта compose) | в `backups/postgres/` и `backups/clickhouse/` свежие копии с manifest; после `make shard-restore FROM=minio BACKUP=<метка>` и `make clickhouse-restore BACKUP=<метка>` числа равны manifest (FR-020, 021, SC-004) |

diff --git a/specs/002-failed-events/data-model.md b/specs/002-failed-events/data-model.md
@@ -6,13 +6,13 @@
 ## FailedEvent (тема `failed-events`, subject `failed-events-value`, avros 1.4.0)
 
 Ключ сообщения — строка `<sourceTopic>-<sourcePartition>-<sourceOffset>`: равномерно по трём разделам даже при шуме одного устройства и при `null`-ключе исходного
-сообщения; совпадает с концом ключа объекта (видно в Kafka UI). Порядок между ошибками не нужен — каждый объект независим.
+сообщения; с ключом объекта не совпадает (он строится из раздела и смещения записи `failed-events`). Порядок между ошибками не нужен — каждый объект независим.
 
 | Поле | Тип | Минимум задания / как используется |
 |---|---|---|
-| `sourceService` | string | минимум; префикс ключа объекта, метка метрик и панелей |
-| `sourceTopic`, `sourcePartition`, `sourceOffset` | string, int, long | минимум; ключ объекта и сообщения; возврат в исходную тему (FR-024) |
-| `sourceTimestamp` | timestamp-millis | **сверх**: дата в ключе объекта. Одинакова у повторных публикаций одного исходного сообщения → один объект |
+| `sourceService` | string | минимум; метка метрик и панелей, метаданные и поле JSON объекта |
+| `sourceTopic`, `sourcePartition`, `sourceOffset` | string, int, long | минимум; ключ сообщения; поля JSON объекта; возврат в исходную тему (FR-024) |
+| `sourceTimestamp` | timestamp-millis | **сверх**: время исходного сообщения, поле JSON объекта; дата ключа объекта — время записи `failed-events` |
 | `failedAt` | timestamp-millis | минимум (время ошибки); поле JSON, панель задержки «ошибка → объект» |
 | `errorCode` | enum `ErrorCode`, default `UNKNOWN` | минимум; сегмент ключа объекта, метка метрик; единый справочник кодов |
 | `errorType` | enum `ErrorType`, default `PERMANENT` | минимум; метка метрик, разбор: постоянную чинят данные, временную — повтор |
@@ -50,8 +50,9 @@
 
 ## Объект ошибки (бакет `failed-events`)
 
-Ключ: `<sourceService>/<yyyy>/<MM>/<dd>/<errorCode>/<sourceTopic>-<sourcePartition>-<sourceOffset>.json`; дата — `sourceTimestamp` в UTC.
-Пример: `device-collector-service/2026/11/21/STORAGE_UNAVAILABLE/devices-1-1042.json`.
+Ключ: `<yyyy>/<MM>/<dd>/failed-events-<partition>-<offset>.json`; `partition` и `offset` — раздел и смещение записи в `failed-events`, дата — время
+этой записи в UTC. Один ключ для читаемой и нечитаемой записи; при повторной доставке записи он не меняется.
+Пример: `2026/11/21/failed-events-1-7.json`.
 
 Метаданные объекта (поиск без чтения тела): `x-amz-meta-error-code`, `-source-service`, `-source-topic`, `-trace-id` (если есть), `-device-id` (если есть).
 
@@ -80,9 +81,9 @@ JSON-документ (все поля `FailedEvent`; время — ISO-8601 UT
 ```
 
 Восстановление байт в байт: `base64 -d` поля `value` (и `key`, `headers`) даёт исходные байты. `archive` — служебный блок процессора: координаты записи
-`failed-events` и время записи; в ключ объекта не входят.
+`failed-events` и время записи; из них строится ключ объекта.
 
-Нечитаемая запись (`unreadable/<yyyy>/<MM>/<dd>/failed-events-<partition>-<offset>.json`, дата — время записи в `failed-events`):
+Нечитаемая запись (тот же ключ `<yyyy>/<MM>/<dd>/failed-events-<partition>-<offset>.json`, дата — время записи в `failed-events`):
 
 ```json
 {

diff --git a/specs/002-failed-events/tasks.md b/specs/002-failed-events/tasks.md
@@ -142,16 +142,15 @@
   во все Dockerfile других подпроектов (`grep -L` пуст; после T031 — нужен `build.gradle.kts` процессора) — `settings.gradle.kts`, `AV/Dockerfile`, `ECS/Dockerfile`, `DCS/Dockerfile`,
   `services/db-migrator/Dockerfile`, `services/device-service/Dockerfile` (FR-022)
 - [ ] T033 [P] Правила слоёв: домен не зависит от Kafka, S3 SDK, Spring Kafka; `@KafkaListener` только в `adapter.in.kafka` — `FEPT/architecture/ArchitectureTest.java` (FR-022)
-- [ ] T034 [P] Тест ключа: `givenFailedEvent_whenKey_thenFromSourceCoordinatesAndSourceTimestampUtc`, `…WhenTwoPublicationsOfSameSource_thenSameKey`,
-  `…WhenNoDeviceId…`, символы в `sourceTopic` — `FEPT/domain/model/ArchiveKeyTest.java` (FR-007, FR-008)
+- [ ] T034 [P] Тест ключа: `givenRecord_whenKey_thenFromFailedEventsPartitionOffsetAndRecordTimestampUtc`, `…WhenUnreadableAndReadableOfSameRecord_thenSameKey`,
+  `…WhenRedelivered_thenSameKeyAndSameDate`, `…WhenNoDeviceId…` — `FEPT/domain/model/ArchiveKeyTest.java` (FR-007, FR-008)
 - [ ] T035 [P] Тест JSON-документа: все поля `FailedEvent` присутствуют, `base64(value)` и `base64(key)` равны байтам, `null` у `traceId`/`key`/`value`, заголовки,
   метаданные объекта — `FEPT/domain/service/ArchiveServiceTest.java` (FR-007; R5)
 - [ ] T036 Контракт: запись `FailedEvent` 1.4.0 читается процессором; неизвестный `errorCode` → `UNKNOWN`, в объекте `UNKNOWN` и исходное число — `FEPT/contract/FailedEventContractTest.java` (FR-001; R9)
-- [ ] T037 IT (Kafka, Schema Registry, MinIO — `pgsty/minio` через `asCompatibleSubstituteFor`; R19): объект создан, JSON полон, байты побайтно (FR-007); повторная доставка и две
-  записи с одним исходным сообщением → один объект, одна версия (FR-008); нечитаемые байты → `unreadable/…` (FR-010) — `FEPT/it/ItFailedEventsProcessorTest.java`,
+- [ ] T037 IT (Kafka, Schema Registry, MinIO — `pgsty/minio` через `asCompatibleSubstituteFor`; R19): объект создан, JSON полон, байты побайтно (FR-007); повторная доставка → один объект, одна версия (FR-008); запись, сначала нечитаемая, затем разобранная (схема появилась), → один объект (FR-008, FR-010); нечитаемые байты → объект с `kind = unreadable` (FR-010) — `FEPT/it/ItFailedEventsProcessorTest.java`,
   `FEPT/it/AbstractItTest.java`, `FEPT/it/MinioTestContainerConfig.java` (FR-007, FR-008, FR-010, FR-023, SC-002)
 - [ ] T038 IT недоступности: MinIO на `docker pause` дольше `max.poll.interval.ms` — смещение не движется, группа `Stable`, после снятия паузы объект появился и смещение
-  продвинулось (SC-003); перезапуск процессора над непустым бакетом — объекты на месте; Schema Registry на паузе — `unreadable` не создаётся — `FEPT/it/ItFailedEventsOutageTest.java` (FR-009, FR-010; R6, R7)
+  продвинулось (SC-003); перезапуск процессора над непустым бакетом — объекты на месте; Schema Registry на паузе — объект `unreadable` не создаётся — `FEPT/it/ItFailedEventsOutageTest.java` (FR-009, FR-010; R6, R7)
 - [ ] T039 IT трассы: запись с `traceparent` — объект содержит тот же `traceId`, спан `s3.put-object` — потомок спана слушателя — `FEPT/it/ItFailedEventsTraceTest.java` (FR-011; R8)
 - [ ] T040 [P] Точка входа и конфигурация только из переменных окружения (plan.md), JSON-логи с `traceId`/`spanId`, `max.poll.interval.ms`,
   `enable-auto-commit: false`, `ack-mode: manual_immediate`, `max-poll-records: 1`, `auto-offset-reset: earliest` —

diff --git a/specs/002-failed-events/analyze-report.md b/specs/002-failed-events/analyze-report.md
@@ -26,3 +26,14 @@
 **Unmapped tasks:** T074, T075, T077, T078, T083 — документы, снимки и converge, требований FR не закрывают.
 
 **Metrics:** требований 25 FR + 5 SC; задач 83 (из них **ЧЕЛОВЕК** 3: T004, T077, T078); критических находок 0; открытых HIGH 0, открытых MEDIUM 3 (I2, C2, R1).
+
+## Проход после ревью PR #6 (2026-11-22)
+
+Четыре замечания ревью (proselytear) к диаграммам; сверка с кодом ветки реализации показала, что верно первое, остальные три — расхождения диаграмм.
+
+| ID | Category | Severity | Location(s) | Summary | Статус |
+|----|----------|----------|-------------|---------|--------|
+| P1 | Inconsistency | HIGH | ADR-0014, ADR-0018, spec.md (FR-007, FR-008, FR-010), data-model.md, plan.md, `fep-error-to-minio-sequence.mmd`, `component-failed-events-processor.mmd` | У нечитаемой и разобранной записи разные ключи: сбой между записью `unreadable` и подтверждением смещения после восстановления схемы даёт два объекта | Исправлено: общий ключ `<yyyy>/<MM>/<dd>/failed-events-<partition>-<offset>.json` из координат и времени записи `failed-events`; цена (потеря префикса сервис/код, второй объект при повторной публикации сборщиком) записана в ADR-0014 |
+| P2 | Inconsistency | MEDIUM | `fep-error-to-minio-sequence.mmd`, `sequence-ingest.mmd` | Смещение `events` подтверждалось после `device_events` без `device_outbox` | Исправлено: обе записи — один шаг, ack после обеих, ошибка любой ведёт к повторам и `FailedEvent` |
+| P3 | Inconsistency | MEDIUM | `sequence-ingest.mmd`, `dcs-error-sequence.mmd` | В `FailedEvent` то `DeviceEvent`/`DeviceInfo` (Avro), то исходные байты | Исправлено: везде исходные байты из заголовков `x-raw-key`, `x-raw-value`, добавлен шаг их сохранения до разбора |
+| P4 | Inconsistency | MEDIUM | `dcs-operations-sequence.mmd` | `DeviceRegistryService` сам публикует `FailedEvent`, в других схемах — `DefaultErrorHandler` | Исправлено: сервис бросает исключение, публикует обработчик, ack после ответа Kafka, добавлена ветка неудачной публикации |

diff --git a/docs/adr/0019-optional-return-and-object-lock.md b/docs/adr/0019-optional-return-and-object-lock.md
@@ -23,7 +23,7 @@
 - Повторный возврат того же объекта даёт второе сообщение в топике. Защиты от этого нет; поведение при обработке дубля не проверено.
 - Возврат не удаляет объект из MinIO. Объект остаётся архивом, пока не истечёт срок.
 - Версии и lock не влияют на запись процессора: условный PUT остаётся идемпотентным (ADR-0014).
-- Возврат точечный: одна команда — один объект, массового возврата в объём этого ADR нет. Пачку объектов одного кода и дня можно вернуть, повторив команду по списку ключей (ключи — ADR-0014).
+- Возврат точечный: одна команда — один объект, массового возврата в объём этого ADR нет. Пачку объектов одного дня можно вернуть, повторив команду по списку ключей (ключи — ADR-0014): список дня — по префиксу `yyyy/MM/dd/`, отбор по коду ошибки — по `x-amz-meta-error-code` или полю JSON, префикса с кодом в ключе нет.
 - Пометка о возврате меняет заголовки, но не байты `key` и `value`. Проверки байт в тестах возврата сравнивают именно `key` и `value`.
 - Сборщики и процессор при этом не меняются: возврат — отдельная команда стенда.
 
